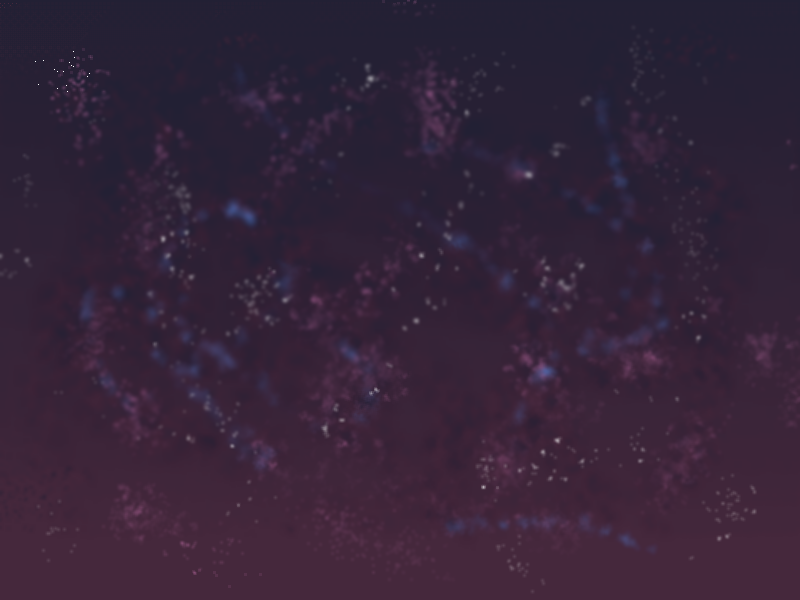
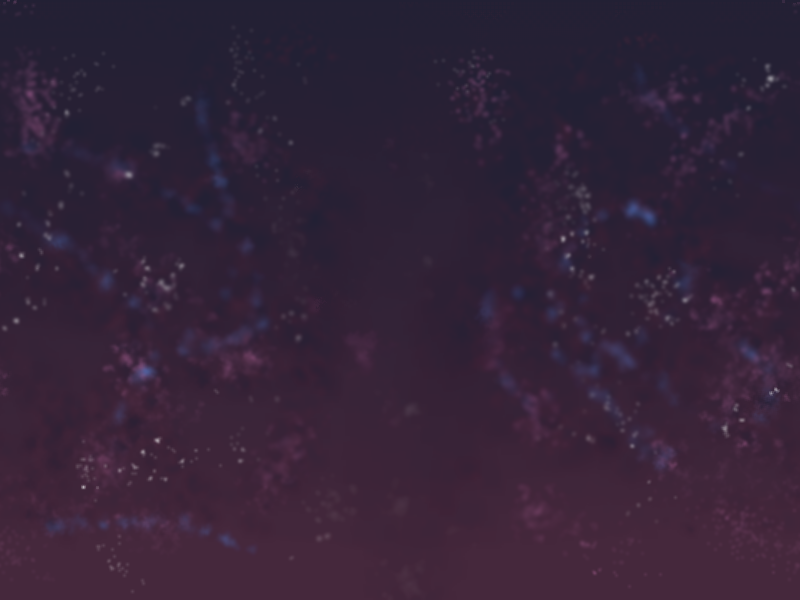
scrolling bg, animaciones y disparo a medias

diff --git a/index.html b/index.html
@@ -18,14 +18,23 @@
 
 let screen_w = 800;
 let screen_h = 600;
+let scroll_speed = 5;
+
+let p_speed = 6;
+let tile_size = 20;
 
 let enemy_num = 6;
 let enemies = [];
 let bullet_num = 3;
 let bullets = [];
 
+let bullet_counter = 0;
+
 let cursors;
 let keycode_space;
+
+
+
 
 let config = {
 	width: screen_w,
@@ -46,58 +55,133 @@ let config = {
 let game = new Phaser.Game(config);
 
 function preload(){
+
+
+//LOAD IMG
 	this.load.image('bg', '/bg.png');
-	this.load.spritesheet('enemy','/enemigo.png', {frameWidth: 16, frameHeight: 16});
-	this.load.spritesheet('player', '/spaceship.png', {frameWidth: 16, frameHeight:16});
+	this.load.spritesheet('enemy_spr','/enemigo.png', {frameWidth: 16, frameHeight: 16});
+	this.load.spritesheet('player_spr', '/spaceship.png', {frameWidth: 16, frameHeight:16});
 	this.load.image('bullet', '/bullet.png');
 
-cursors = this.input.keyboard.createCursorKeys();
-keycode_space = this.input.keyboard.addKey(Phaser.Input.Keyboard.KeyCodes.SPACE);
-console.log(keycode_space);
+
+
+//LOAD CONTROLS
+	cursors = this.input.keyboard.createCursorKeys();
+	
+	keycode_space = this.input.keyboard.addKey(Phaser.Input.Keyboard.KeyCodes.SPACE);
+
+
+
+
+
+
 }
 
 function create(){
-	bg = this.add.image(400,300,'bg');
+
+
+//BACKGROUND
+	bg = this.add.image(0,300,'bg');
+
+	bg2 = this.add.image(0,300,'bg');
+
+	bg.texture.setFilter(Phaser.Textures.FilterMode.NEAREST);
+	bg2.texture.setFilter(Phaser.Textures.FilterMode.NEAREST);
+//ANIMATIONS
+
+	this.anims.create({
+		key:"moving",
+		frames: this.anims.generateFrameNumbers('player_spr', {frames:[0,1,2,3]}),
+		frameRate: 8,
+		repeat: -1});
+
+	this.anims.create({
+		key:"e_moving",
+		frames: this.anims.generateFrameNumbers('enemy_spr', {frames:[0,1,2,3]}),
+		frameRate: 8,
+		repeat: -1});
+
+
+	player = this.add.sprite(60,screen_h/2);
 	
-	player = this.add.image(100,screen_h/2, 'player');
-	player.setScale(3);	
+	player.anims.play('moving');
 	player.texture.setFilter(Phaser.Textures.FilterMode.NEAREST);
 	
+	this.physics.add.existing(player, false);
+
+player.setScale(3);	
 
 
 
 	for (let i = 0; i < enemy_num; i++) 
 	{
 
-	enemy_u = this.add.image(screen_w +16,(50*i)+100, 'enemy');
+	enemy_u = this.add.sprite(16,(50*i)+100);
+	enemy_u.anims.play('e_moving');
 	enemy_u.setScale(3);
-	enemy_u.texture.setFilter(Phaser.Textures.FilterMode.NEAREST);
 	enemies.push(enemy_u);
 
 	}
 	for (let i = 0; i < bullet_num; i++)
 	{
 	
-bullet_u = this.add.image(screen_w +16,(50*i)+50, 'bullet');
+
+	bullet_u = this.add.image(screen_w +16,(50*i)+50, 'bullet');
 	bullet_u.setScale(3);
 	bullet_u.texture.setFilter(Phaser.Textures.FilterMode.NEAREST);
 
 
 	bullets.push(bullet_u);
 	}
-console.log( cursors.down);
+	bg.setDisplaySize(1600,600);
+	bg2.setDisplaySize(1600,600);
+
+bg.x=0;
+bg2.x= bg.displayWidth;
+
 }
 
 function update(){
+//scrollingBG
 
-if (cursors.down.isDown){player.y += 10;}
+	bg.x -= scroll_speed;
+	bg2.x -= scroll_speed;
+	
+	if (bg.x + bg.displayWidth ==  screen_w *2){bg2.x = screen_w*2;}
+	if (bg2.x + bg2.displayWidth == screen_w*2) {bg.x = screen_w*2;}
+	
+	
 
 
-
-if (cursors.up.isDown){player.y -= 10;}
+//player controls
+if (cursors.down.isDown && player.y+tile_size <=screen_h ){player.y += p_speed ; 
 }
 
 
+if (cursors.up.isDown && player.y >= tile_size){player.y -= p_speed ;
+}
+
+if (Phaser.Input.Keyboard.JustDown(keycode_space)) {
+
+bullets[bullet_counter].x = player.x;
+bullets[bullet_counter].y = player.y;
+bullet_counter++;
+if (bullet_counter == bullet_num){
+bullet_counter = 0;
+console.log(keycode_space._events);
+}
+}
+
+for(let i = 0; i < bullet_num; i++){
+if ((bullets[i].x < screen_w + 40 && bullets[i].x > 0) &&(bullets[i].y > 0 && bullets[i].y < screen_h ) )
+{
+bullets[i].x += p_speed;
+}
+}
+
+
+
+}
 </script>
  
 
